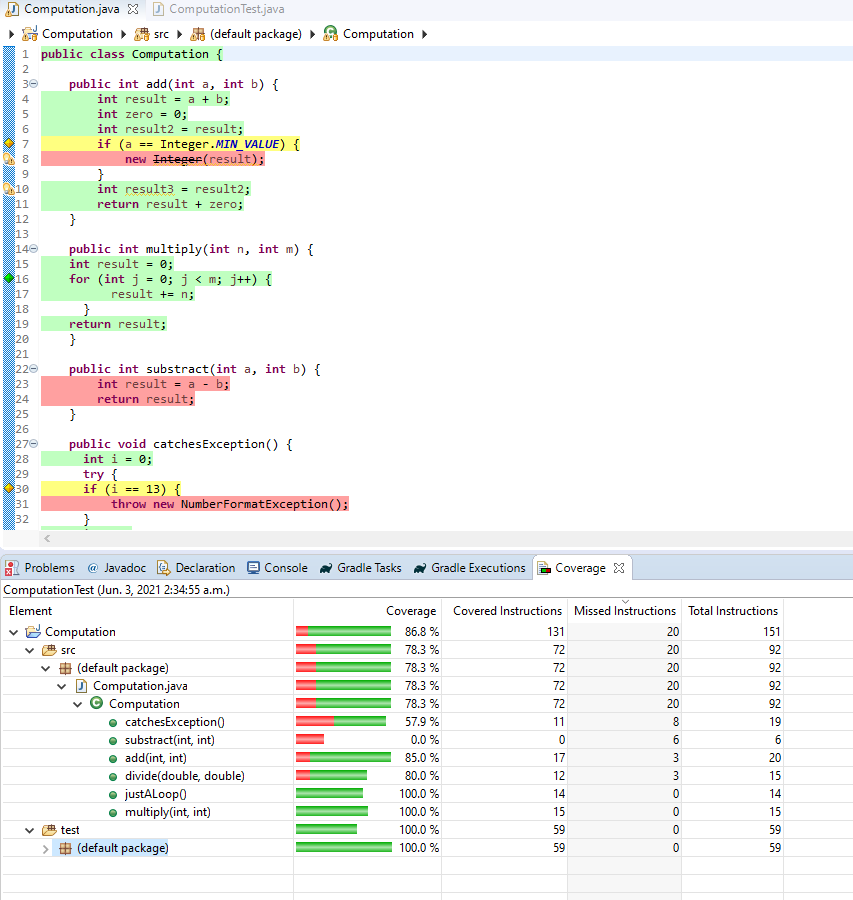
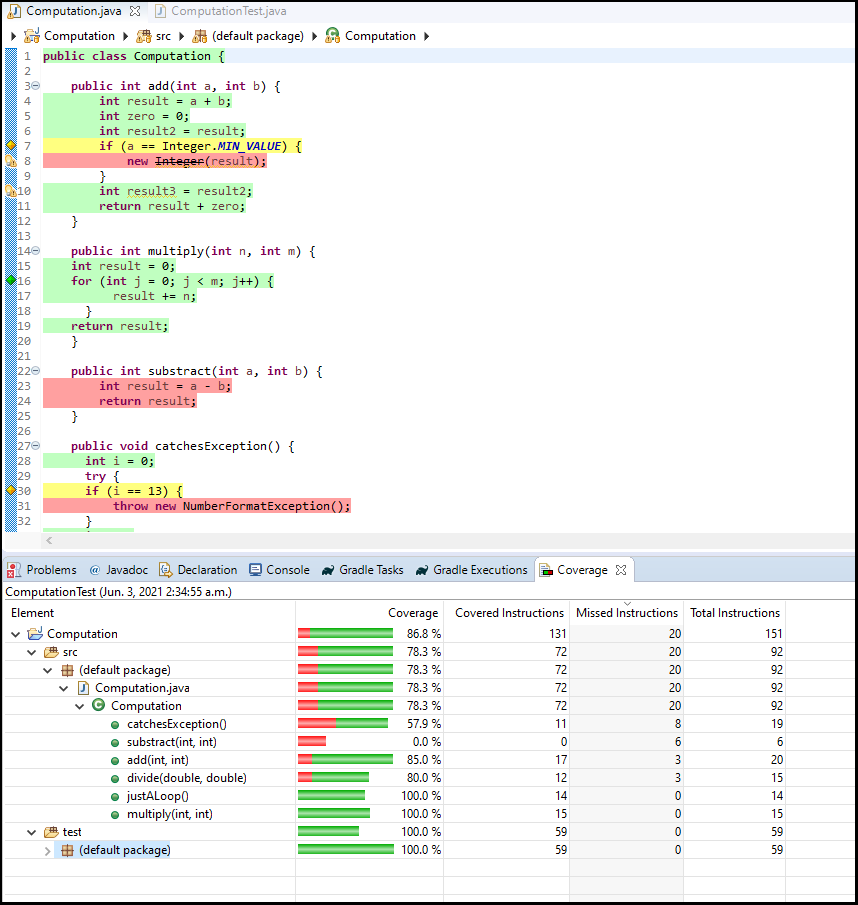
Added image borders; correction

Changed region(s): [[0.0, 0.0, 1.0, 1.0], [0.3048, 0.4044, 0.3353, 0.4356]]

diff --git a/lab03/README.md b/lab03/README.md
@@ -91,7 +91,7 @@ Before changing anything in the `date` project, let's check the coverage of the 
 
 ![Jacoco Eclipse report, initial date coverage](assets/covtest_date1.png)
 
-There's an interesting thing to note here: while the JUnit view (seen left) says all tests ran successfully, the coverage metrics show the tests didn't run *fully*. This is due to the way `assertThrows` and `expected=Exception` tests work (they do not have to run *fully* to run *successfully*, since they expect to be interrupted). I'll limit further screenshots to the coverage view exclusively from now on.
+There's an interesting thing to note here: while the JUnit view (seen left) says all tests ran successfully, the coverage metrics show some tests didn't run *fully*. This is due to the way `assertThrows` and `expected=Exception` tests work (they do not have to run *fully* to run *successfully*, since they expect to be interrupted). I'll limit further screenshots to the coverage view exclusively from now on.
 
 <br><br><br>
 ### 4 — Improving `Date.java` Coverage
